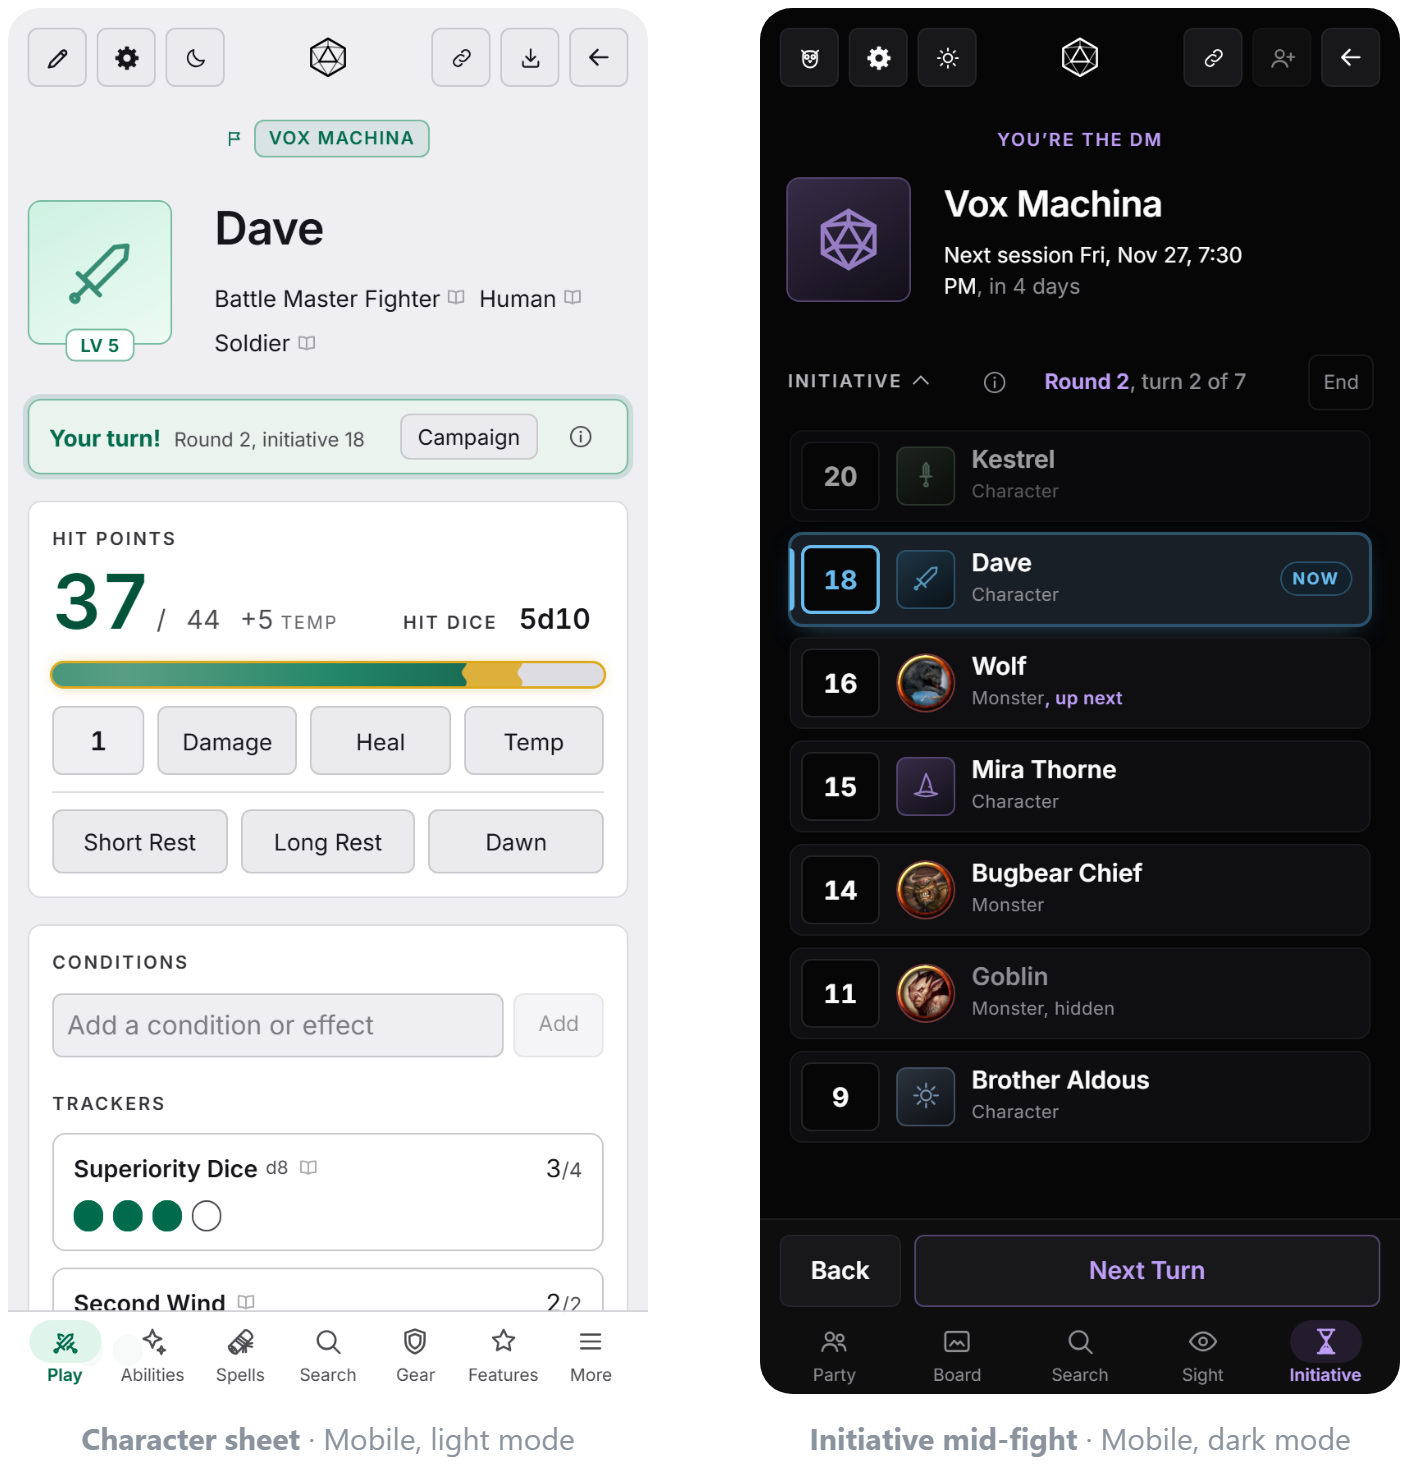
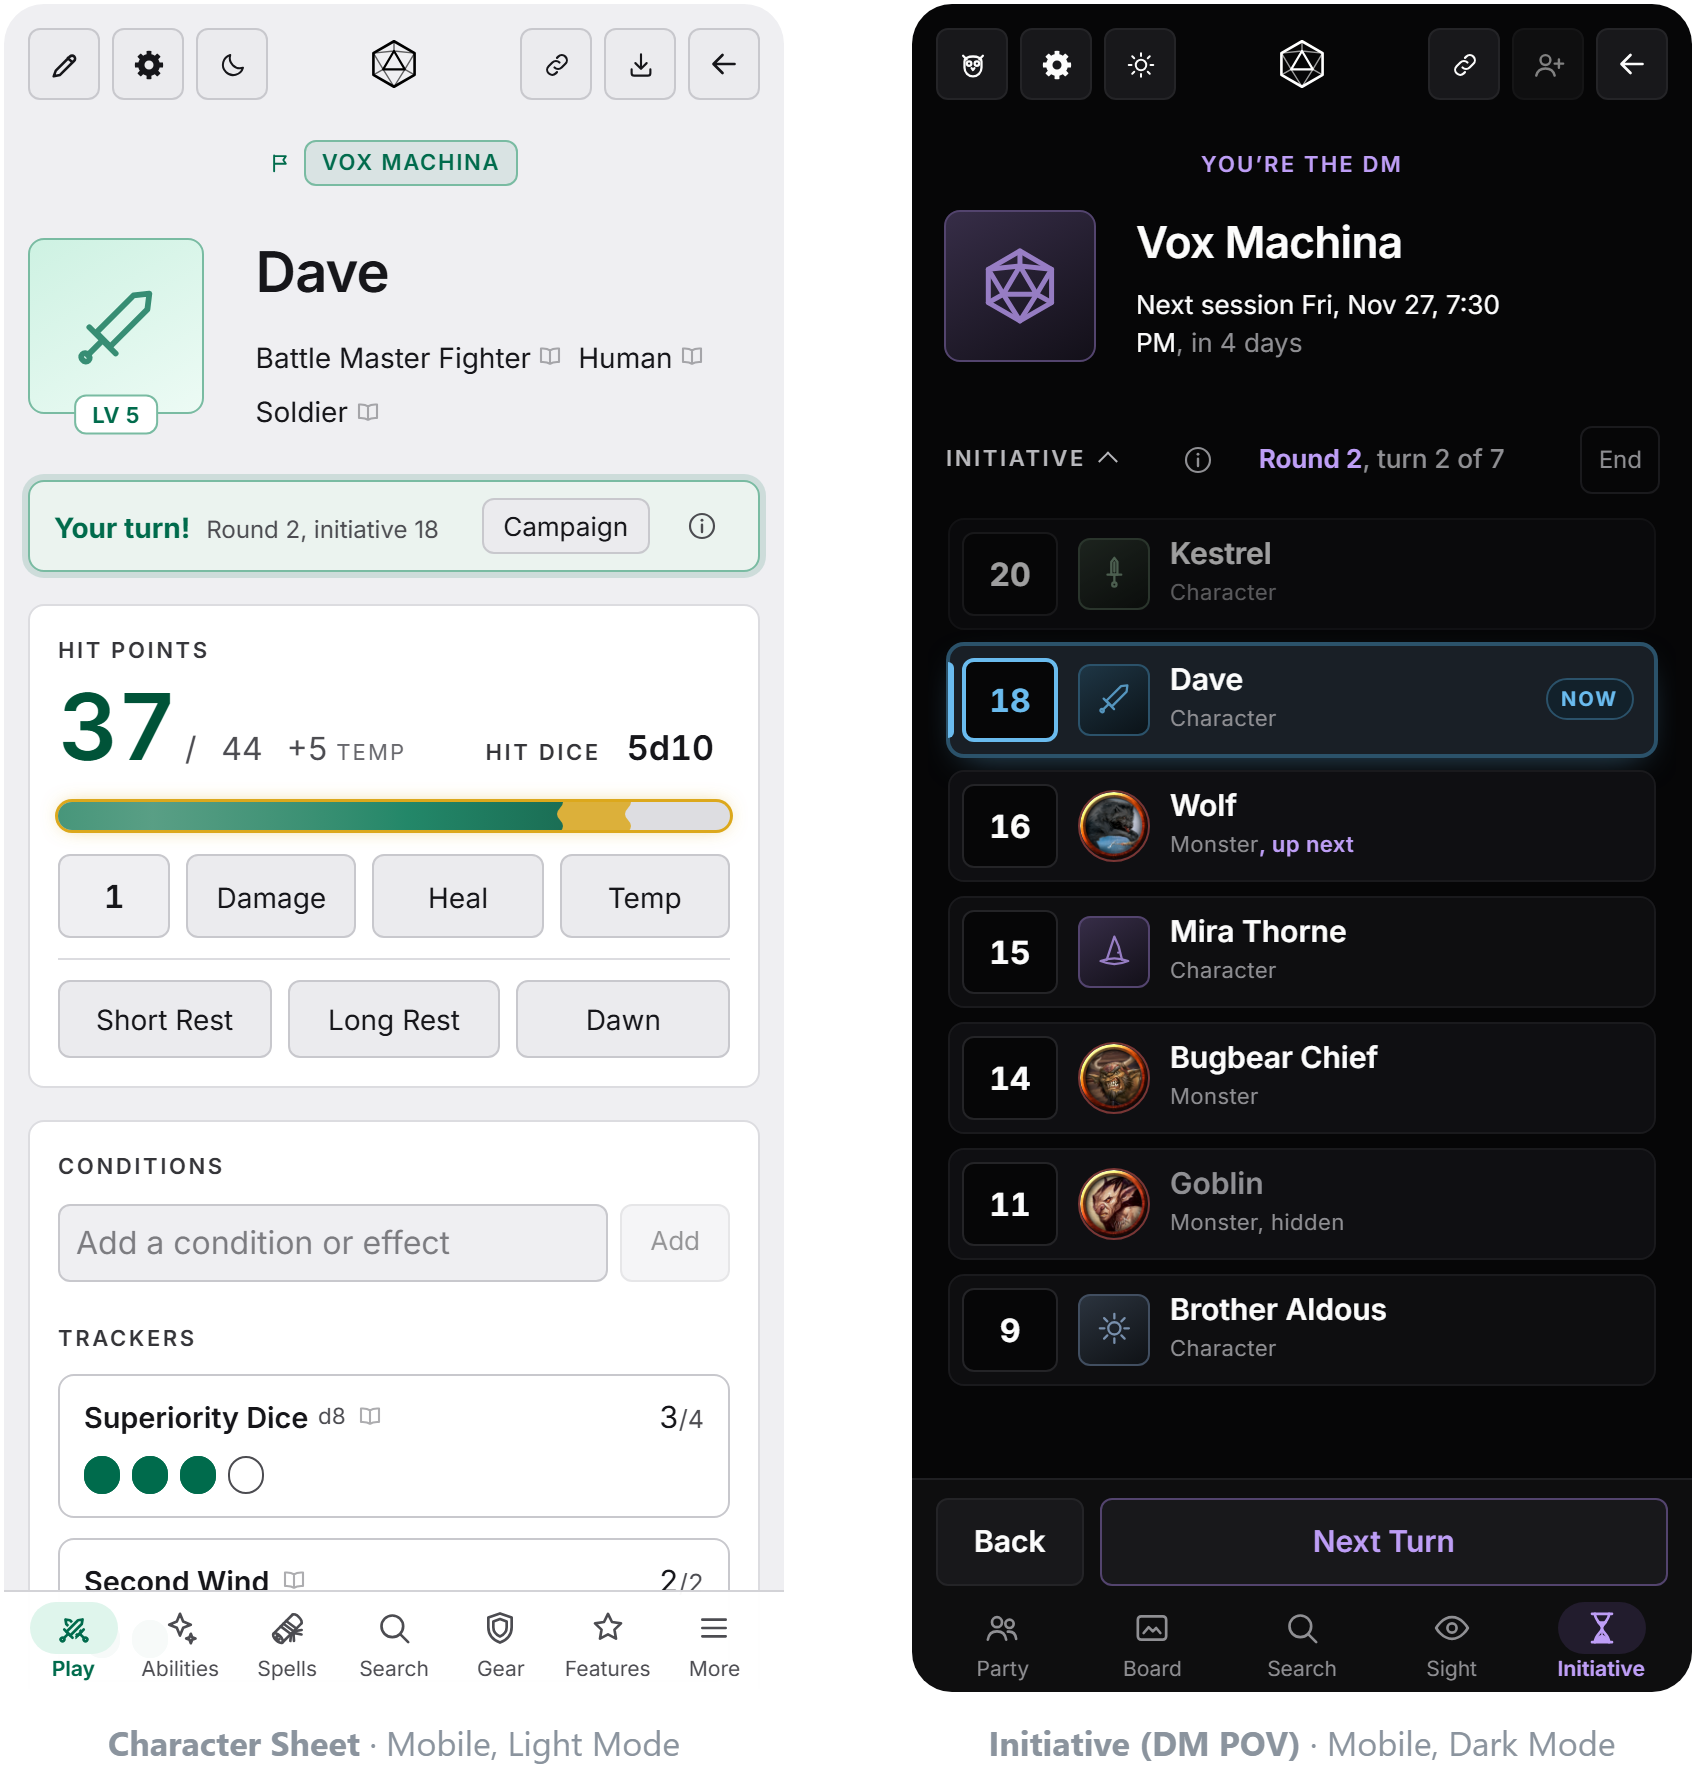
docs: sharper Showcase pictures with rounded corners and labels inside
Every screen is shot at twice its size and drawn at its own pixels, so
nothing is scaled. Each picture has rounded corners and its label under
it (Character Sheet, Campaign Page (Player POV), Initiative (DM POV)),
and Dave's quick hit point change is open on the campaign page.

diff --git a/README.md b/README.md
@@ -38,17 +38,13 @@ away, and puts the whole party on one live page for the DM.
 ## Showcase
 
 <p align="center">
-  <img src=".github/readme/desktop-sheet.png" alt="Dave's character sheet on a desktop in dark mode: hit points with temporary ones, abilities, saving throws, skills, attacks, and trackers" width="100%">
-  <br>
-  <sub><b>Character sheet</b> · Desktop, dark mode</sub>
+  <img src=".github/readme/desktop-sheet.png" alt="Character Sheet, Desktop, Dark Mode: Dave's sheet with hit points and temporary ones, abilities, saving throws, skills, attacks, and trackers" width="100%">
 </p>
 <p align="center">
-  <img src=".github/readme/desktop-campaign.png" alt="The Vox Machina campaign page in light mode as Dave's player sees it: the party's cards, Damage, Heal, and Temp on Dave's own card, and the initiative order mid-fight" width="100%">
-  <br>
-  <sub><b>Campaign page, as a player sees it</b> · Desktop, light mode</sub>
+  <img src=".github/readme/desktop-campaign.png" alt="Campaign Page (Player POV), Desktop, Light Mode: the Vox Machina party's cards, Damage, Heal, and Temp open on Dave's own card, and the initiative order mid-fight" width="100%">
 </p>
 <p align="center">
-  <img src=".github/readme/mobile.png" alt="Two mobile screens side by side: Dave's character sheet in light mode, its places on a bar at the bottom; and the DM's initiative order mid-fight in dark mode, with Back and Next Turn under the thumb" width="82%">
+  <img src=".github/readme/mobile.png" alt="Character Sheet, Mobile, Light Mode, beside Initiative (DM POV), Mobile, Dark Mode: Dave's sheet with its places on a bar at the bottom, and the DM's initiative order with Back and Next Turn under the thumb" width="82%">
 </p>
 
 ## Usage
